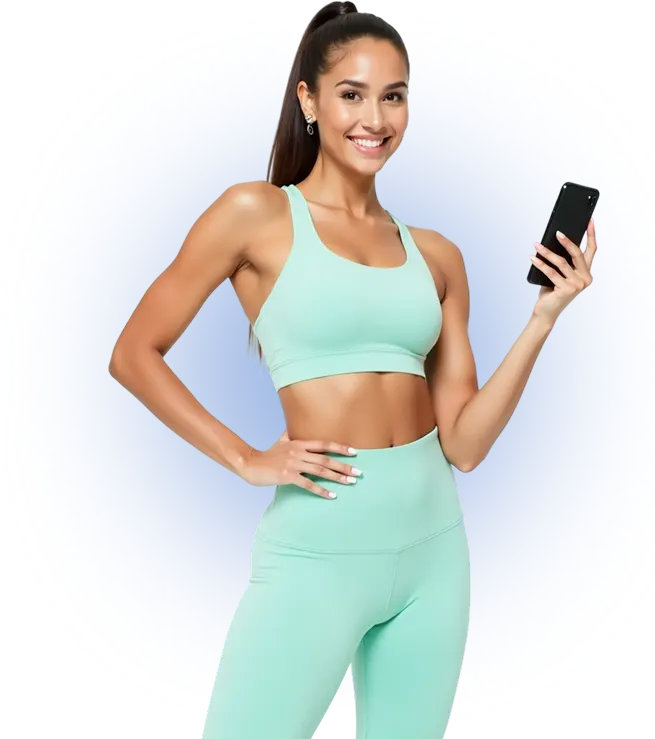
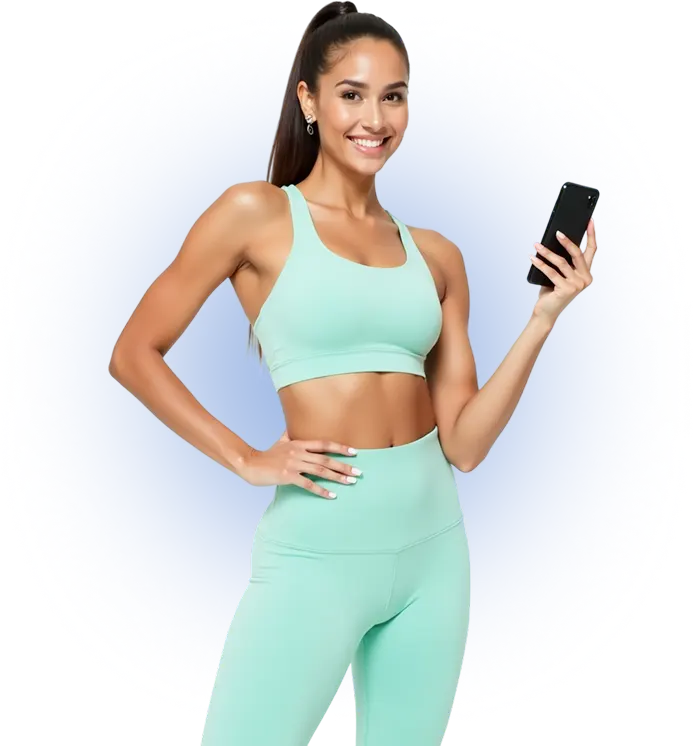
Initial commit

Changed region(s): [[0.1527, 0.0, 0.916, 1.0], [0.4275, 0.8092, 0.6412, 1.0], [0.2748, 0.747, 0.3969, 1.0]]

diff --git a/index.html b/index.html
@@ -1,1 +1,1 @@
-<!doctype html><html lang="uk"><head><meta content="true" name="HandheldFriendly"><meta content="telephone=no" name="format-detection"><meta charset="UTF-8"><meta content="Купити мінерали" name="description"><meta content="width=device-width,initial-scale=1" name="viewport"><meta content="yes" name="mobile-web-app-capable"><meta content="default" name="apple-mobile-web-app-status-bar-style"><meta content="VibeFit" name="author"><meta content="index, follow" name="robots"><meta content="index, follow" name="googlebot"><meta content="no-referrer-when-downgrade" name="referrer"><link href="./css/main.css?v=sdf" rel="preload" as="style"><link href="./css/main.css?v=sdf" rel="stylesheet"><link href="./img/favicon/favicon_120.svg" rel="icon" type="image/svg+xml" sizes="120x120"><link href="./img/favicon/favicon_144.svg" rel="icon" type="image/svg+xml" sizes="144x144"><link href="./img/sections/section-hero/image_woman.webp" rel="preload" type="image/webp" as="image"></head><title>VibeFit - Фітнес, що підлаштовується під тебе</title><body><main><section class="hero bg--black pl--16 pr--16 pb--18"><div class="hero__box m--auto position--relative"><div class="hero__wrapper grid gap--18"><div class="hero__container grid gap--18"><header class="hero__header grid gap--18"><h1 class="hero__title font--primary font--size-32 color--white text--uppercase text--break">Фітнес, що підлаштовується під тебе</h1><p class="hero__text font--secondary font--medium font--size-15 color--white"><span class="font--bold color--blue">VibeFit</span> — це чат-бот, який підбирає тренування, харчування та навіть орендує тренажер. Усе — без походів у зал</p></header><div class="hero__content flex flex--column items--end gap--40"><div class="hero__btn-wrapper flex flex--column items--end gap--8"><a class="font--secondary font--bold font--size-18 color--black bg--mint flex items--center justify--center btn--small br--36 pt--12 pb--12 pl--16 pr--16" href="#">Почати зараз</a> <a class="font--secondary font--bold font--size-18 color--white flex items--center justify--center btn--transparent btn--small br--36 pt--12 pb--12 pl--16 pr--16" href="#">Як це працює?</a></div><figure class="hero__img-wrapper bg--alpha-white position--relative br--16"><img alt="Два смартфони з відкритим додатком VibeFit" class="hero__img position--absolute" height="83" loading="lazy" src="./img/sections/section-hero/image_smartphones.webp" width="86"></figure></div></div><ul class="hero__item-list flex flex--column items--end gap--8"><li class="hero__item flex items--center justify--center bg--alpha-white gap--8 br--36 pt--8 pb--8 pl--16 pr--16"><svg class="hero__icon" fill="none" height="16" viewBox="0 0 16 16" width="16" xmlns="http://www.w3.org/2000/svg"><path d="M5.58669 13.7123L2.28869 10.4136C1.68536 9.81096 1.38403 9.50963 1.34136 9.14163C1.33177 9.05946 1.33177 8.97646 1.34136 8.89429C1.38403 8.52629 1.68536 8.22429 2.28803 7.62163C2.89136 7.01896 3.19269 6.71763 3.56069 6.67496C3.64336 6.66474 3.72558 6.66474 3.80736 6.67496C4.17603 6.71763 4.47736 7.01896 5.08069 7.62163L5.56936 8.11096L8.11069 5.56896L7.62203 5.08029C7.01869 4.47763 6.71736 4.17629 6.67469 3.80829C6.6651 3.72613 6.6651 3.64313 6.67469 3.56096C6.71736 3.19296 7.01869 2.89163 7.62136 2.28829C8.22469 1.68563 8.52603 1.38429 8.89403 1.34163C8.97597 1.33209 9.05875 1.33209 9.14069 1.34163C9.50936 1.38429 9.81069 1.68563 10.414 2.28829L13.7127 5.58829C14.316 6.19096 14.6174 6.49229 14.66 6.86029C14.6702 6.94296 14.6702 7.02518 14.66 7.10696C14.6174 7.47563 14.316 7.77696 13.7134 8.38029C13.11 8.98229 12.8087 9.28363 12.4407 9.32696C12.3587 9.3365 12.276 9.3365 12.194 9.32696C11.8254 9.28363 11.524 8.98229 10.9207 8.38029L10.18 7.63829L7.63869 10.1803L8.37936 10.9216C8.98269 11.5243 9.28403 11.8256 9.32669 12.1936C9.33692 12.2763 9.33692 12.3585 9.32669 12.4403C9.28403 12.809 8.98269 13.1103 8.38003 13.7136C7.77669 14.3156 7.47536 14.617 7.10736 14.6603C7.02542 14.6698 6.94264 14.6698 6.86069 14.6603C6.49203 14.617 6.19069 14.3156 5.58736 13.7136" fill="white"/><path d="M11.6593 1.31175C11.7531 1.21812 11.8802 1.16553 12.0127 1.16553C12.1452 1.16553 12.2722 1.21812 12.366 1.31175L14.4353 3.38109C14.5236 3.47587 14.5717 3.60123 14.5694 3.73077C14.5672 3.8603 14.5147 3.98389 14.4231 4.0755C14.3315 4.16711 14.2079 4.21959 14.0783 4.22187C13.9488 4.22416 13.8234 4.17607 13.7287 4.08775L11.6587 2.01842C11.565 1.92467 11.5124 1.79759 11.5124 1.66509C11.5124 1.53259 11.5657 1.4055 11.6593 1.31175ZM1.31066 11.6584C1.40441 11.5648 1.53149 11.5122 1.66399 11.5122C1.79649 11.5122 1.92357 11.5648 2.01732 11.6584L4.08732 13.7278C4.17564 13.8225 4.22372 13.9479 4.22144 14.0774C4.21915 14.207 4.16668 14.3306 4.07507 14.4222C3.98346 14.5138 3.85987 14.5663 3.73034 14.5685C3.6008 14.5708 3.47544 14.5227 3.38066 14.4344L1.31066 12.3651C1.21702 12.2713 1.16443 12.1443 1.16443 12.0118C1.16443 11.8793 1.21702 11.7522 1.31066 11.6584Z" fill="white" clip-rule="evenodd" fill-rule="evenodd"/></svg> <span class="hero__item-text font--secondary font--size-15 font--medium color--white">Макротренажер</span></li><li class="hero__item flex items--center justify--center bg--alpha-white gap--8 br--36 pt--8 pb--8 pl--16 pr--16"><svg class="hero__icon" fill="none" height="16" viewBox="0 0 16 16" width="16" xmlns="http://www.w3.org/2000/svg"><path d="M11.3333 0.673171L4.66665 0.666504C3.93331 0.666504 3.33331 1.2665 3.33331 1.99984V13.9998C3.33331 14.7332 3.93331 15.3332 4.66665 15.3332H11.3333C12.0666 15.3332 12.6666 14.7332 12.6666 13.9998V1.99984C12.6666 1.2665 12.0666 0.673171 11.3333 0.673171ZM11.3333 12.6665H4.66665V3.33317H11.3333V12.6665Z" fill="white"/></svg> <span class="hero__item-text font--secondary font--size-15 font--medium color--white">Персональний бот</span></li><li class="hero__item flex items--center justify--center bg--alpha-white gap--8 br--36 pt--8 pb--8 pl--16 pr--16"><svg class="hero__icon" fill="none" height="16" viewBox="0 0 16 16" width="16" xmlns="http://www.w3.org/2000/svg"><path d="M8.47132 1.52869L14.4713 7.52869C14.8913 7.94869 14.594 8.66669 14 8.66669H13.3333V12.6667C13.3333 13.1971 13.1226 13.7058 12.7475 14.0809C12.3725 14.456 11.8638 14.6667 11.3333 14.6667H10.6667V10C10.6667 9.48988 10.4718 8.99901 10.1218 8.62785C9.77182 8.25668 9.29325 8.03328 8.78398 8.00335L8.66665 8.00002H7.33332C6.80289 8.00002 6.29418 8.21073 5.9191 8.58581C5.54403 8.96088 5.33332 9.46959 5.33332 10V14.6667H4.66665C4.13622 14.6667 3.62751 14.456 3.25244 14.0809C2.87737 13.7058 2.66665 13.1971 2.66665 12.6667V8.66669H1.99999C1.40665 8.66669 1.10865 7.94869 1.52865 7.52869L7.52865 1.52869C7.65367 1.40371 7.82321 1.3335 7.99998 1.3335C8.17676 1.3335 8.3463 1.40371 8.47132 1.52869ZM8.66665 9.33335C8.84346 9.33335 9.01303 9.40359 9.13806 9.52862C9.26308 9.65364 9.33332 9.82321 9.33332 10V14.6667H6.66665V10C6.66667 9.83673 6.72662 9.67913 6.83513 9.55711C6.94363 9.43508 7.09315 9.35713 7.25532 9.33802L7.33332 9.33335H8.66665Z" fill="white"/></svg> <span class="hero__item-text font--secondary font--size-15 font--medium color--white">Вдома — без залу</span></li></ul></div><img alt="Жінка в спортивному одязі тримає смартфон з додатком VibeFit" class="hero__img-woman position--absolute" height="620" loading="eager" src="./img/sections/section-hero/image_woman.webp" width="600"></div></section></main><script defer="defer" src="./js/jquery.js"></script><script defer="defer" src="./js/main.js?v=sdf"></script></body></html>
+<!doctype html><html lang="uk"><head><meta content="true" name="HandheldFriendly"><meta content="telephone=no" name="format-detection"><meta charset="UTF-8"><meta content="Купити мінерали" name="description"><meta content="width=device-width,initial-scale=1" name="viewport"><meta content="yes" name="mobile-web-app-capable"><meta content="default" name="apple-mobile-web-app-status-bar-style"><meta content="VibeFit" name="author"><meta content="index, follow" name="robots"><meta content="index, follow" name="googlebot"><meta content="no-referrer-when-downgrade" name="referrer"><link href="./css/main.css?v=sdf" rel="preload" as="style"><link href="./css/main.css?v=sdf" rel="stylesheet"><link href="./img/favicon/favicon_120.svg" rel="icon" type="image/svg+xml" sizes="120x120"><link href="./img/favicon/favicon_144.svg" rel="icon" type="image/svg+xml" sizes="144x144"><link href="./img/sections/section-hero/image_woman.webp" rel="preload" type="image/webp" as="image"></head><title>VibeFit - Фітнес, що підлаштовується під тебе</title><body><main><section class="hero bg--black pl--16 pr--16 pb--18"><div class="hero__box m--auto position--relative"><div class="hero__wrapper grid gap--18"><div class="hero__container grid gap--18"><header class="hero__header grid gap--18"><h1 class="hero__title font--primary font--size-32 color--white text--uppercase">Фітнес, що підлаштовується під тебе</h1><p class="hero__text font--secondary font--medium font--size-15 color--white"><span class="font--bold color--blue">VibeFit</span> — це чат-бот, який підбирає тренування, харчування та навіть орендує тренажер. Усе — без походів у зал</p></header><div class="hero__content flex flex--column items--end gap--40"><div class="hero__btn-wrapper flex flex--column items--end gap--8"><a class="hero__btn-filled font--secondary font--bold font--size-18 color--black bg--mint flex items--center justify--center btn--small br--36 pt--12 pb--12" href="#">Почати зараз</a> <a class="hero__btn-clear font--secondary font--bold font--size-18 color--white flex items--center justify--center btn--transparent btn--small br--36 pt--12 pb--12" href="#">Як це працює?</a></div><figure class="hero__img-wrapper bg--alpha-white position--relative br--16"><img alt="Два смартфони з відкритим додатком VibeFit" class="hero__img position--absolute" height="83" loading="lazy" src="./img/sections/section-hero/image_smartphones.webp" width="86"></figure></div></div><ul class="hero__item-list flex flex--column items--end gap--8"><li class="hero__item flex items--center justify--center bg--alpha-white gap--8 br--36 pt--8 pb--8 pl--16 pr--16"><svg class="hero__icon" fill="none" height="16" viewBox="0 0 16 16" width="16" xmlns="http://www.w3.org/2000/svg"><path d="M5.58669 13.7123L2.28869 10.4136C1.68536 9.81096 1.38403 9.50963 1.34136 9.14163C1.33177 9.05946 1.33177 8.97646 1.34136 8.89429C1.38403 8.52629 1.68536 8.22429 2.28803 7.62163C2.89136 7.01896 3.19269 6.71763 3.56069 6.67496C3.64336 6.66474 3.72558 6.66474 3.80736 6.67496C4.17603 6.71763 4.47736 7.01896 5.08069 7.62163L5.56936 8.11096L8.11069 5.56896L7.62203 5.08029C7.01869 4.47763 6.71736 4.17629 6.67469 3.80829C6.6651 3.72613 6.6651 3.64313 6.67469 3.56096C6.71736 3.19296 7.01869 2.89163 7.62136 2.28829C8.22469 1.68563 8.52603 1.38429 8.89403 1.34163C8.97597 1.33209 9.05875 1.33209 9.14069 1.34163C9.50936 1.38429 9.81069 1.68563 10.414 2.28829L13.7127 5.58829C14.316 6.19096 14.6174 6.49229 14.66 6.86029C14.6702 6.94296 14.6702 7.02518 14.66 7.10696C14.6174 7.47563 14.316 7.77696 13.7134 8.38029C13.11 8.98229 12.8087 9.28363 12.4407 9.32696C12.3587 9.3365 12.276 9.3365 12.194 9.32696C11.8254 9.28363 11.524 8.98229 10.9207 8.38029L10.18 7.63829L7.63869 10.1803L8.37936 10.9216C8.98269 11.5243 9.28403 11.8256 9.32669 12.1936C9.33692 12.2763 9.33692 12.3585 9.32669 12.4403C9.28403 12.809 8.98269 13.1103 8.38003 13.7136C7.77669 14.3156 7.47536 14.617 7.10736 14.6603C7.02542 14.6698 6.94264 14.6698 6.86069 14.6603C6.49203 14.617 6.19069 14.3156 5.58736 13.7136" fill="white"/><path d="M11.6593 1.31175C11.7531 1.21812 11.8802 1.16553 12.0127 1.16553C12.1452 1.16553 12.2722 1.21812 12.366 1.31175L14.4353 3.38109C14.5236 3.47587 14.5717 3.60123 14.5694 3.73077C14.5672 3.8603 14.5147 3.98389 14.4231 4.0755C14.3315 4.16711 14.2079 4.21959 14.0783 4.22187C13.9488 4.22416 13.8234 4.17607 13.7287 4.08775L11.6587 2.01842C11.565 1.92467 11.5124 1.79759 11.5124 1.66509C11.5124 1.53259 11.5657 1.4055 11.6593 1.31175ZM1.31066 11.6584C1.40441 11.5648 1.53149 11.5122 1.66399 11.5122C1.79649 11.5122 1.92357 11.5648 2.01732 11.6584L4.08732 13.7278C4.17564 13.8225 4.22372 13.9479 4.22144 14.0774C4.21915 14.207 4.16668 14.3306 4.07507 14.4222C3.98346 14.5138 3.85987 14.5663 3.73034 14.5685C3.6008 14.5708 3.47544 14.5227 3.38066 14.4344L1.31066 12.3651C1.21702 12.2713 1.16443 12.1443 1.16443 12.0118C1.16443 11.8793 1.21702 11.7522 1.31066 11.6584Z" fill="white" clip-rule="evenodd" fill-rule="evenodd"/></svg> <span class="hero__item-text font--secondary font--size-15 font--medium color--white">Макротренажер</span></li><li class="hero__item flex items--center justify--center bg--alpha-white gap--8 br--36 pt--8 pb--8 pl--16 pr--16"><svg class="hero__icon" fill="none" height="16" viewBox="0 0 16 16" width="16" xmlns="http://www.w3.org/2000/svg"><path d="M11.3333 0.673171L4.66665 0.666504C3.93331 0.666504 3.33331 1.2665 3.33331 1.99984V13.9998C3.33331 14.7332 3.93331 15.3332 4.66665 15.3332H11.3333C12.0666 15.3332 12.6666 14.7332 12.6666 13.9998V1.99984C12.6666 1.2665 12.0666 0.673171 11.3333 0.673171ZM11.3333 12.6665H4.66665V3.33317H11.3333V12.6665Z" fill="white"/></svg> <span class="hero__item-text font--secondary font--size-15 font--medium color--white">Персональний бот</span></li><li class="hero__item flex items--center justify--center bg--alpha-white gap--8 br--36 pt--8 pb--8 pl--16 pr--16"><svg class="hero__icon" fill="none" height="16" viewBox="0 0 16 16" width="16" xmlns="http://www.w3.org/2000/svg"><path d="M8.47132 1.52869L14.4713 7.52869C14.8913 7.94869 14.594 8.66669 14 8.66669H13.3333V12.6667C13.3333 13.1971 13.1226 13.7058 12.7475 14.0809C12.3725 14.456 11.8638 14.6667 11.3333 14.6667H10.6667V10C10.6667 9.48988 10.4718 8.99901 10.1218 8.62785C9.77182 8.25668 9.29325 8.03328 8.78398 8.00335L8.66665 8.00002H7.33332C6.80289 8.00002 6.29418 8.21073 5.9191 8.58581C5.54403 8.96088 5.33332 9.46959 5.33332 10V14.6667H4.66665C4.13622 14.6667 3.62751 14.456 3.25244 14.0809C2.87737 13.7058 2.66665 13.1971 2.66665 12.6667V8.66669H1.99999C1.40665 8.66669 1.10865 7.94869 1.52865 7.52869L7.52865 1.52869C7.65367 1.40371 7.82321 1.3335 7.99998 1.3335C8.17676 1.3335 8.3463 1.40371 8.47132 1.52869ZM8.66665 9.33335C8.84346 9.33335 9.01303 9.40359 9.13806 9.52862C9.26308 9.65364 9.33332 9.82321 9.33332 10V14.6667H6.66665V10C6.66667 9.83673 6.72662 9.67913 6.83513 9.55711C6.94363 9.43508 7.09315 9.35713 7.25532 9.33802L7.33332 9.33335H8.66665Z" fill="white"/></svg> <span class="hero__item-text font--secondary font--size-15 font--medium color--white">Вдома — без залу</span></li></ul></div><img alt="Жінка в спортивному одязі тримає смартфон з додатком VibeFit" class="hero__img-woman position--absolute" height="620" loading="eager" src="./img/sections/section-hero/image_woman.webp" width="600"></div></section></main><script defer="defer" src="./js/jquery.js"></script><script defer="defer" src="./js/main.js?v=sdf"></script></body></html>

diff --git a/css/main.css b/css/main.css
@@ -1,1 +1,1 @@
-*{padding:0;margin:0;border:0;box-sizing:border-box;-webkit-appearance:none;-webkit-font-smoothing:antialiased;-moz-osx-font-smoothing:grayscale;font-smooth:always}::after,::before{box-sizing:inherit}body,html{height:100%;width:100%;line-height:normal;font-size:15px}button,input,textarea{outline:0}*,button,input,select,textarea{-webkit-tap-highlight-color:transparent}input:focus{outline:0;box-shadow:none}input::-ms-clear{display:none}button{cursor:pointer}button::-moz-focus-inner{padding:0;border:0}a{line-height:1}a,a:hover,a:visited{text-decoration:none}ul li{list-style:none}li{line-height:normal}@font-face{font-family:'RussoOne';font-display:swap;src:url(../fonts/RussoOneRegular.woff2) format("woff2");font-weight:400;font-style:normal}@font-face{font-family:'UbuntuSans';font-display:swap;src:url(../fonts/UbuntuSansMedium.woff2) format("woff2");font-weight:500;font-style:normal}@font-face{font-family:'UbuntuSans';font-display:swap;src:url(../fonts/UbuntuSansBold.woff2) format("woff2");font-weight:700;font-style:normal}.flex{display:flex}.flex--column{flex-direction:column}.items--center{align-items:center}.items--end{align-items:end}.justify--center{justify-content:center}.justify--end{justify-content:end}.self--end{align-self:end}.gap--8{gap:8px}.gap--16{gap:16px}.gap--18{gap:18px}.gap--40{gap:40px}.grid{display:grid}.pl--8{padding-left:8px}.pl--16{padding-left:16px}.pr--8{padding-right:8px}.pr--16{padding-right:16px}.pt--8{padding-top:8px}.pt--12{padding-top:12px}.pb--8{padding-bottom:8px}.pb--12{padding-bottom:12px}.pb--18{padding-bottom:18px}.m--auto{margin-left:auto;margin-right:auto}.color--white{color:var(--color--white)}.color--black{color:var(--color--black)}.color--blue{color:var(--color--blue)}.bg--black{background-color:var(--color--black)}.bg--white{background-color:var(--color--white)}.bg--mint{background-color:var(--color--mint)}.bg--alpha-white{background-color:var(--color--alpha-white)}.br--16{border-radius:16px}.br--36{border-radius:36px}.font--normal{font-weight:400}.font--medium{font-weight:500}.font--bold{font-weight:700}.font--primary{font-family:'RussoOne'}.font--secondary{font-family:'UbuntuSans'}.font--size-15{font-size:1rem}.font--size-18{font-size:1.2rem}.font--size-32{font-size:2.13333rem}.text--uppercase{text-transform:uppercase}@media (max-width:370px){.text--break{word-break:break-word}}.position--fixed{position:fixed}.position--absolute{position:absolute}.position--relative{position:relative}.btn--small{width:163px;height:42px}@media (min-width:768px){.btn--small{width:175px;height:52px;font-size:1.33333rem}}.btn--transparent{background-color:transparent;border:1px solid var(--color--white)}:root{--color--black:#000000;--color--white:#FFFFFF;--color--blue:#9AB5E3;--color--mint:#C5DEDB;--color--alpha-white:#FFFFFF1A}.header{z-index:999}.hero{padding-top:120px;overflow:hidden}@media (min-width:768px){.hero{padding:175px 40px 70px}.hero__btn-wrapper{flex-direction:row;gap:24px}.hero__icon{width:24px;height:24px}.hero__item{gap:16px;padding:10px 24px}.hero__item-text{font-size:1.2rem}.hero__item-list{gap:24px}.hero__header{gap:48px}.hero__container{gap:64px}.hero__content,.hero__wrapper{gap:48px}}@media (min-width:1024px){.hero__content{gap:150px;margin-top:-65px}.hero__content,.hero__item-list{flex-direction:row}.hero__wrapper{gap:80px}.hero__container{gap:0}}@media (min-width:1440px){.hero{padding:180px 120px 75px}.hero__header{gap:64px}}.hero__box{z-index:0;max-width:1440px}.hero__title{max-width:500px}@media (min-width:768px){.hero__title{font-size:3.2rem;max-width:610px}}@media (min-width:1440px){.hero__title{font-size:4.93333rem;max-width:780px}}.hero__text{max-width:435px}@media (min-width:768px){.hero__text{font-size:1.2rem;max-width:520px}}@media (min-width:1024px){.hero__text{max-width:435px}}.hero__img{bottom:0;left:50%;transform:translateX(-50%)}@media (min-width:768px){.hero__img{width:140px;height:auto}}.hero__img-wrapper{border:.562px solid #484848;backdrop-filter:blur(9.8px);height:90px;width:123px}@media (min-width:768px){.hero__img-wrapper{height:155px;width:210px}}.hero__img-woman{bottom:-75px;width:375px;height:auto;z-index:-1;left:50%;transform:translateX(-77%)}@media (min-width:768px){.hero__img-woman{max-width:unset;width:485px;transform:translateX(-80%)}}@media (min-width:1024px){.hero__img-woman{transform:none;max-width:600px;width:40vw;left:auto;right:-40px}}@media (min-width:1440px){.hero__img-woman{max-width:700px}}
+*{padding:0;margin:0;border:0;box-sizing:border-box;-webkit-appearance:none;-webkit-font-smoothing:antialiased;-moz-osx-font-smoothing:grayscale;font-smooth:always}::after,::before{box-sizing:inherit}body,html{height:100%;width:100%;line-height:normal;font-size:15px}button,input,textarea{outline:0}*,button,input,select,textarea{-webkit-tap-highlight-color:transparent}input:focus{outline:0;box-shadow:none}input::-ms-clear{display:none}button{cursor:pointer}button::-moz-focus-inner{padding:0;border:0}a{line-height:1}a,a:hover,a:visited{text-decoration:none}ul li{list-style:none}li{line-height:normal}@font-face{font-family:'RussoOne';font-display:swap;src:url(../fonts/RussoOneRegular.woff2) format("woff2");font-weight:400;font-style:normal}@font-face{font-family:'UbuntuSans';font-display:swap;src:url(../fonts/UbuntuSansMedium.woff2) format("woff2");font-weight:500;font-style:normal}@font-face{font-family:'UbuntuSans';font-display:swap;src:url(../fonts/UbuntuSansBold.woff2) format("woff2");font-weight:700;font-style:normal}.flex{display:flex}.flex--column{flex-direction:column}.items--center{align-items:center}.items--end{align-items:end}.justify--center{justify-content:center}.justify--end{justify-content:end}.self--end{align-self:end}.gap--8{gap:8px}.gap--16{gap:16px}.gap--18{gap:18px}.gap--40{gap:40px}.grid{display:grid}.pl--8{padding-left:8px}.pl--16{padding-left:16px}.pr--8{padding-right:8px}.pr--16{padding-right:16px}.pt--8{padding-top:8px}.pt--12{padding-top:12px}.pb--8{padding-bottom:8px}.pb--12{padding-bottom:12px}.pb--18{padding-bottom:18px}.m--auto{margin-left:auto;margin-right:auto}.color--white{color:var(--color--white)}.color--black{color:var(--color--black)}.color--blue{color:var(--color--blue)}.bg--black{background-color:var(--color--black)}.bg--white{background-color:var(--color--white)}.bg--mint{background-color:var(--color--mint)}.bg--alpha-white{background-color:var(--color--alpha-white)}.br--16{border-radius:16px}.br--36{border-radius:36px}.font--normal{font-weight:400}.font--medium{font-weight:500}.font--bold{font-weight:700}.font--primary{font-family:'RussoOne'}.font--secondary{font-family:'UbuntuSans'}.font--size-15{font-size:1rem}.font--size-18{font-size:1.2rem}.font--size-32{font-size:2.13333rem}.text--uppercase{text-transform:uppercase}.position--fixed{position:fixed}.position--absolute{position:absolute}.position--relative{position:relative}.btn--small{width:163px;height:42px}@media (min-width:768px){.btn--small{width:175px;height:52px;font-size:1.33333rem}}.btn--transparent{background-color:transparent;border:1px solid var(--color--white)}:root{--color--black:#000000;--color--white:#FFFFFF;--color--blue:#9AB5E3;--color--mint:#C5DEDB;--color--alpha-white:#FFFFFF1A}.header{z-index:999}.hero{padding-top:120px;overflow:hidden}@media (min-width:768px){.hero{padding:175px 40px 70px}.hero__btn-wrapper{flex-direction:row;gap:24px}.hero__icon{width:24px;height:24px}.hero__item{gap:16px;padding:10px 24px}.hero__item-text{font-size:1.2rem}.hero__item-list{gap:24px}.hero__header{gap:48px}.hero__container{gap:64px}.hero__content,.hero__wrapper{gap:48px}}@media (min-width:1024px){.hero__content{flex-direction:row;gap:150px;margin-top:-65px}.hero__btn-filled{border:1px solid var(--color--mint)}.hero__btn-filled:after,.hero__btn-filled:before{content:'';position:absolute;z-index:-1;border-radius:36px;transition:all .3s;height:100%;left:0;top:0;width:100%}.hero__btn-filled:after{background-color:var(--color--mint)}.hero__btn-filled:hover{color:var(--color--white);border:1px solid var(--color--white);background-color:transparent}.hero__btn-clear:after,.hero__btn-filled:hover:after{height:0;left:50%;top:50%;width:0}.hero__btn-clear,.hero__btn-filled{position:relative;transition:all .3s}.hero__btn-clear:after{background-color:var(--color--mint);content:'';position:absolute;z-index:-1;border-radius:36px;transition:all .3s}.hero__btn-clear:hover{color:var(--color--black);border:1px solid var(--color--mint)}.hero__btn-clear:hover:after{height:calc(100% + 1px);left:-1px;top:-1px;width:calc(100% + 2px)}.hero__item-list{flex-direction:row}.hero__wrapper{gap:80px}.hero__container{gap:0}}@media (min-width:1440px){.hero{padding:180px 120px 75px}.hero__header{gap:64px}}.hero__box{z-index:0;max-width:1440px}.hero__title{max-width:500px}@media (max-width:370px){.hero__title{font-size:1.86667rem}}@media (min-width:768px){.hero__title{font-size:3.2rem;max-width:610px}}@media (min-width:1440px){.hero__title{font-size:4.93333rem;max-width:780px}}.hero__text{max-width:435px}@media (min-width:768px){.hero__text{font-size:1.2rem;max-width:520px}}@media (min-width:1024px){.hero__text{max-width:435px}}.hero__img{bottom:0;left:50%;transform:translateX(-50%)}@media (min-width:768px){.hero__img{width:140px;height:auto}}.hero__img-wrapper{border:.562px solid #484848;backdrop-filter:blur(9.8px);height:90px;width:123px}@media (min-width:768px){.hero__img-wrapper{height:155px;width:210px}}.hero__img-woman{bottom:-80px;width:400px;height:auto;z-index:-1;left:50%;transform:translateX(-73%)}@media (min-width:768px){.hero__img-woman{max-width:unset;width:520px;transform:translateX(-76%)}}@media (min-width:1024px){.hero__img-woman{transform:none;max-width:600px;width:40vw;left:auto;right:-40px}}@media (min-width:1440px){.hero__img-woman{max-width:730px}}

diff --git a/src/scss/sections/section-hero.scss b/src/scss/sections/section-hero.scss
@@ -54,6 +54,81 @@
             margin-top: -65px;
         }
 
+        &__btn {
+            &-filled {
+                border: 1px solid var(--color--mint);
+                position: relative;
+                transition: all .3s;
+
+                &:before,
+                &:after {
+                    content: '';
+                    position: absolute;
+                    z-index: -1;
+                    border-radius: 36px;
+                    transition: all .3s;
+                }
+
+                &:before {
+                    height: 100%;
+                    left: 0;
+                    top: 0;
+                    width: 100%;
+                }
+
+                &:after {
+                    background-color: var(--color--mint);
+                    height: 100%;
+                    left: 0;
+                    top: 0;
+                    width: 100%;
+                }
+
+                &:hover {
+                    color: var(--color--white);
+                    border: 1px solid var(--color--white);
+                    background-color: transparent;
+
+                    &:after {
+                        height: 0;
+                        left: 50%;
+                        top: 50%;
+                        width: 0;
+                    }
+                }
+            }
+
+            &-clear {
+                position: relative;
+                transition: all .3s;
+
+                &:after {
+                    background-color: var(--color--mint);
+                    content: '';
+                    position: absolute;
+                    z-index: -1;
+                    height: 0;
+                    left: 50%;
+                    top: 50%;
+                    width: 0;
+                    border-radius: 36px;
+                    transition: all .3s;
+                }
+
+                &:hover {
+                    color: var(--color--black);
+                    border: 1px solid var(--color--mint);
+
+                    &:after {
+                        height: calc(100% + 1px);
+                        left: -1px;
+                        top: -1px;
+                        width: calc(100% + 2px);
+                    }
+                }
+            }
+        }
+
         &__item {
             &-list {
                 flex-direction: row;
@@ -84,6 +159,10 @@
 
     &__title {
         max-width: 500px;
+
+        @media (max-width: 370px) {
+            @include font(28);
+        }
 
         @media (min-width: 768px) {
             @include font(48);
@@ -132,17 +211,17 @@
         }
 
         &-woman {
-            bottom: -75px;
-            width: 375px;
+            bottom: -80px;
+            width: 400px;
             height: auto;
             z-index: -1;
             left: 50%;
-            transform: translateX(-77%);
+            transform: translateX(-73%);
 
             @media (min-width: 768px) {
                 max-width: unset;
-                width: 485px;
-                transform: translateX(-80%);
+                width: 520px;
+                transform: translateX(-76%);
             }
 
             @media (min-width: 1024px) {
@@ -154,7 +233,7 @@
             }
 
             @media (min-width: 1440px) {
-                max-width: 700px;
+                max-width: 730px;
             }
         }
     }

diff --git a/src/partials/main/sections/section-hero.html b/src/partials/main/sections/section-hero.html
@@ -3,15 +3,15 @@
         <div class="hero__wrapper grid gap--18">
             <div class="hero__container grid gap--18">
                 <header class="hero__header grid gap--18">
-                    <h1 class="hero__title font--primary font--size-32 color--white text--uppercase text--break">Фітнес, що підлаштовується під тебе</h1>
+                    <h1 class="hero__title font--primary font--size-32 color--white text--uppercase">Фітнес, що підлаштовується під тебе</h1>
 
                     <p class="hero__text font--secondary font--medium font--size-15 color--white"><span class="font--bold color--blue">VibeFit</span> — це чат-бот, який підбирає тренування, харчування та навіть орендує тренажер. Усе — без походів у зал</p>
                 </header>
 
                 <div class="hero__content flex flex--column items--end gap--40">
                     <div class="hero__btn-wrapper flex flex--column items--end gap--8">
-                        <a class="font--secondary font--bold font--size-18 color--black bg--mint flex items--center justify--center btn--small br--36 pt--12 pb--12 pl--16 pr--16" href="#">Почати зараз</a>
-                        <a class="font--secondary font--bold font--size-18 color--white flex items--center justify--center btn--transparent btn--small br--36 pt--12 pb--12 pl--16 pr--16" href="#">Як це працює?</a>
+                        <a class="hero__btn-filled font--secondary font--bold font--size-18 color--black bg--mint flex items--center justify--center btn--small br--36 pt--12 pb--12" href="#">Почати зараз</a>
+                        <a class="hero__btn-clear font--secondary font--bold font--size-18 color--white flex items--center justify--center btn--transparent btn--small br--36 pt--12 pb--12" href="#">Як це працює?</a>
                     </div>
 
                     <figure class="hero__img-wrapper bg--alpha-white position--relative br--16">

diff --git a/src/scss/global/classes.scss b/src/scss/global/classes.scss
@@ -191,12 +191,6 @@
     &--uppercase {
         text-transform: uppercase;
     }
-
-    @media (max-width: 370px) {
-        &--break {
-            word-break: break-word;
-        }
-    }
 }
 
 .position {
